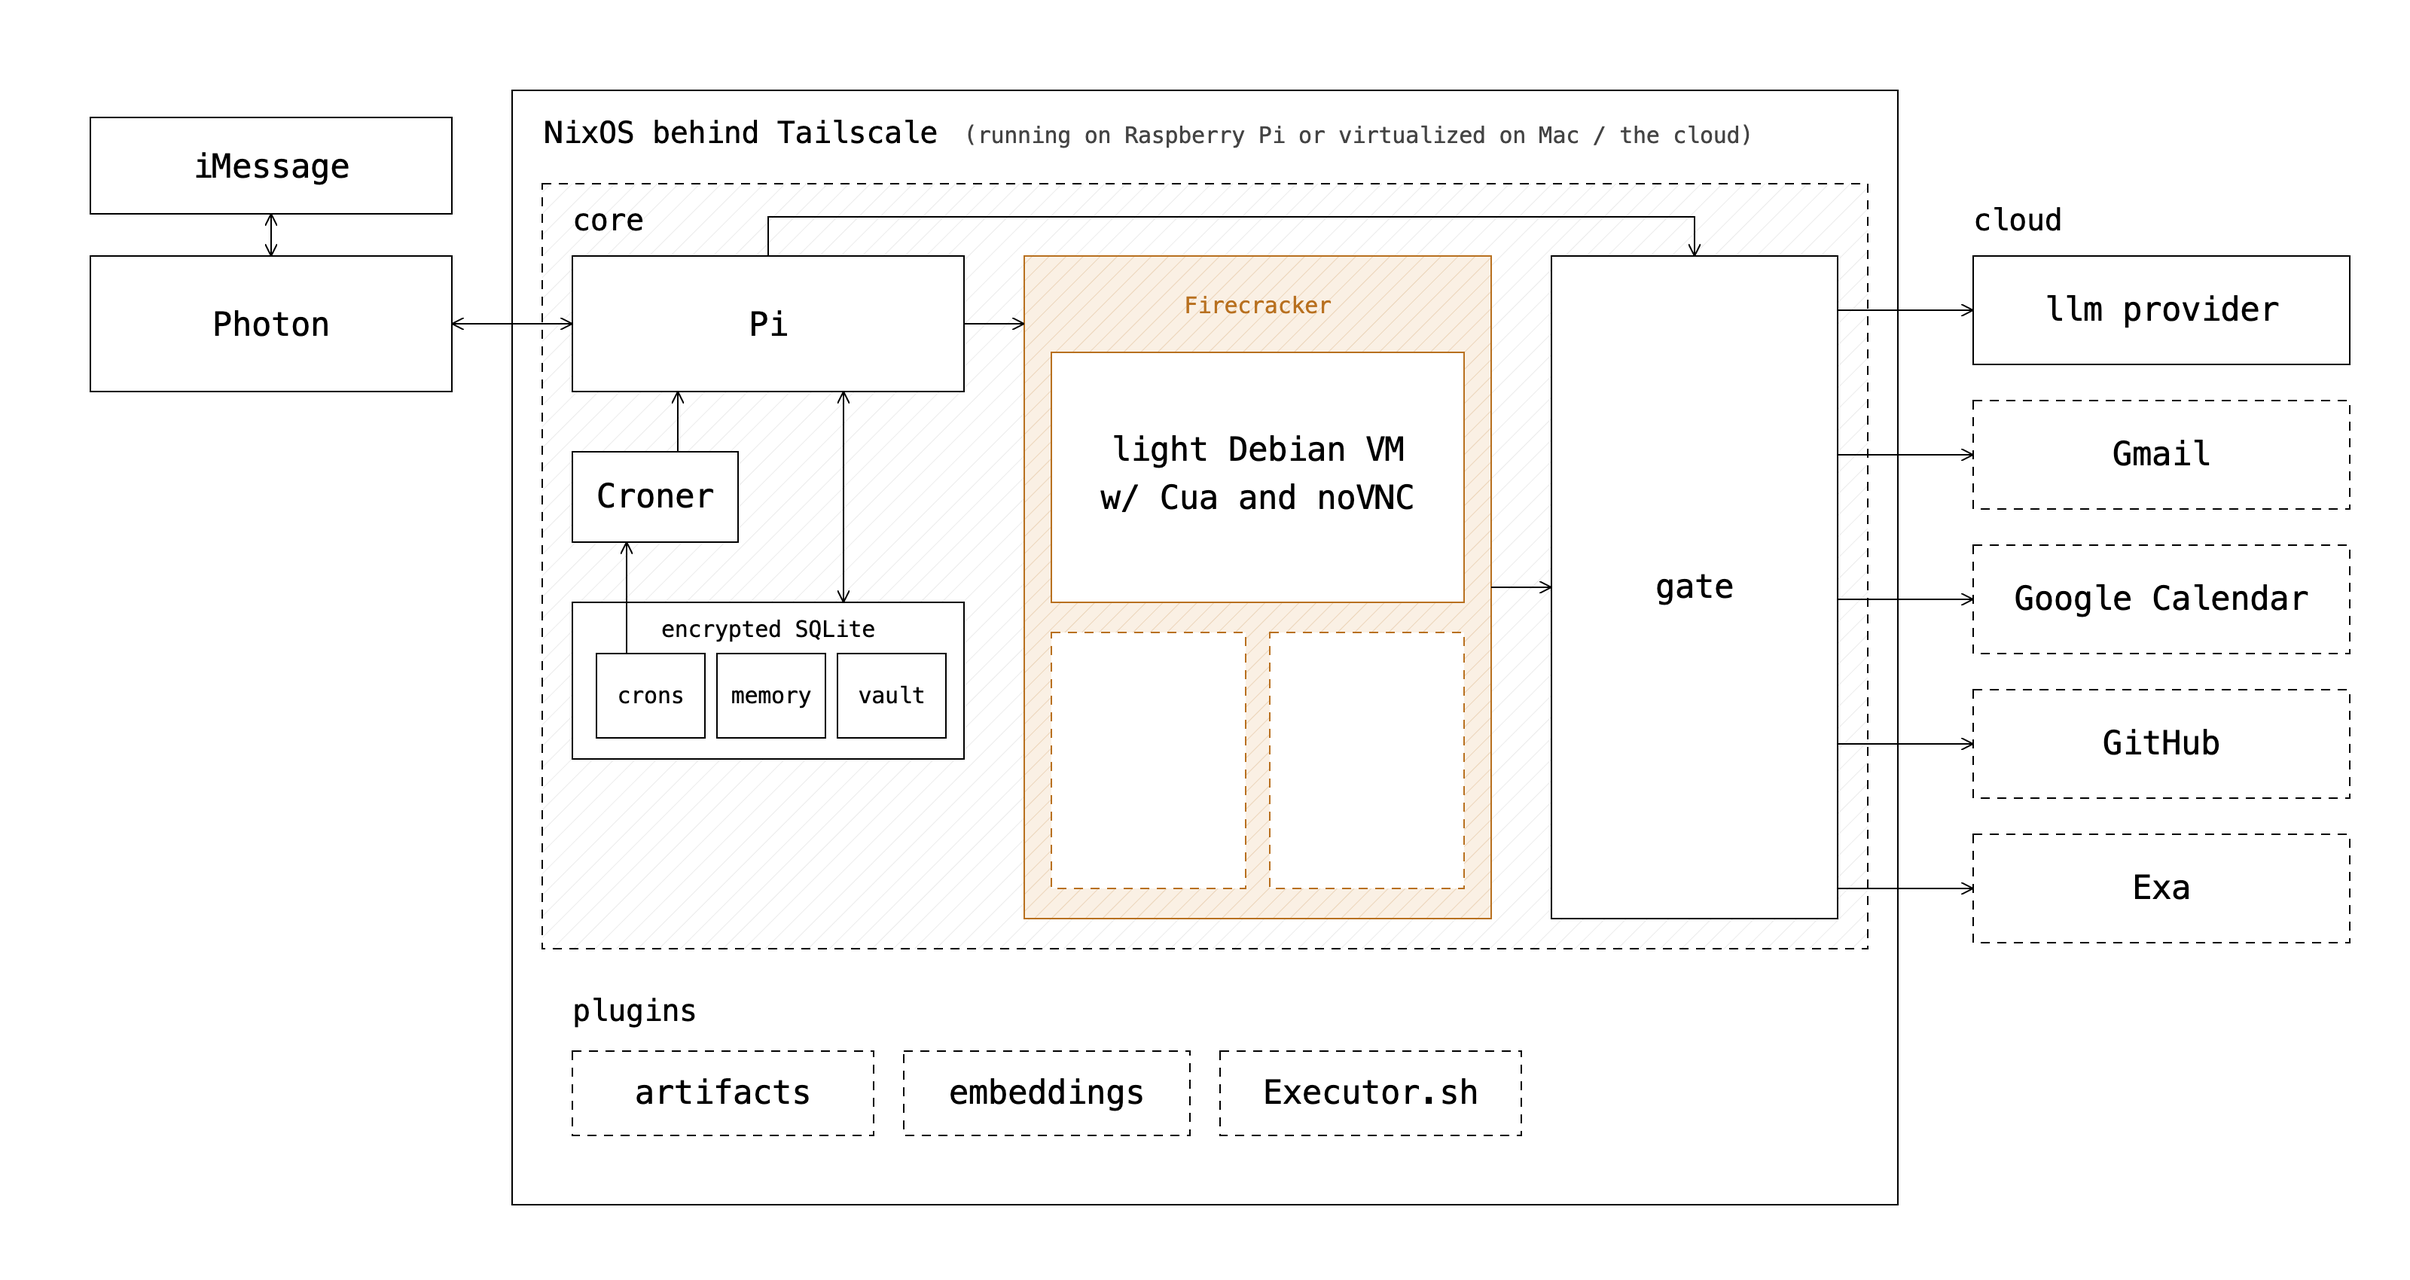
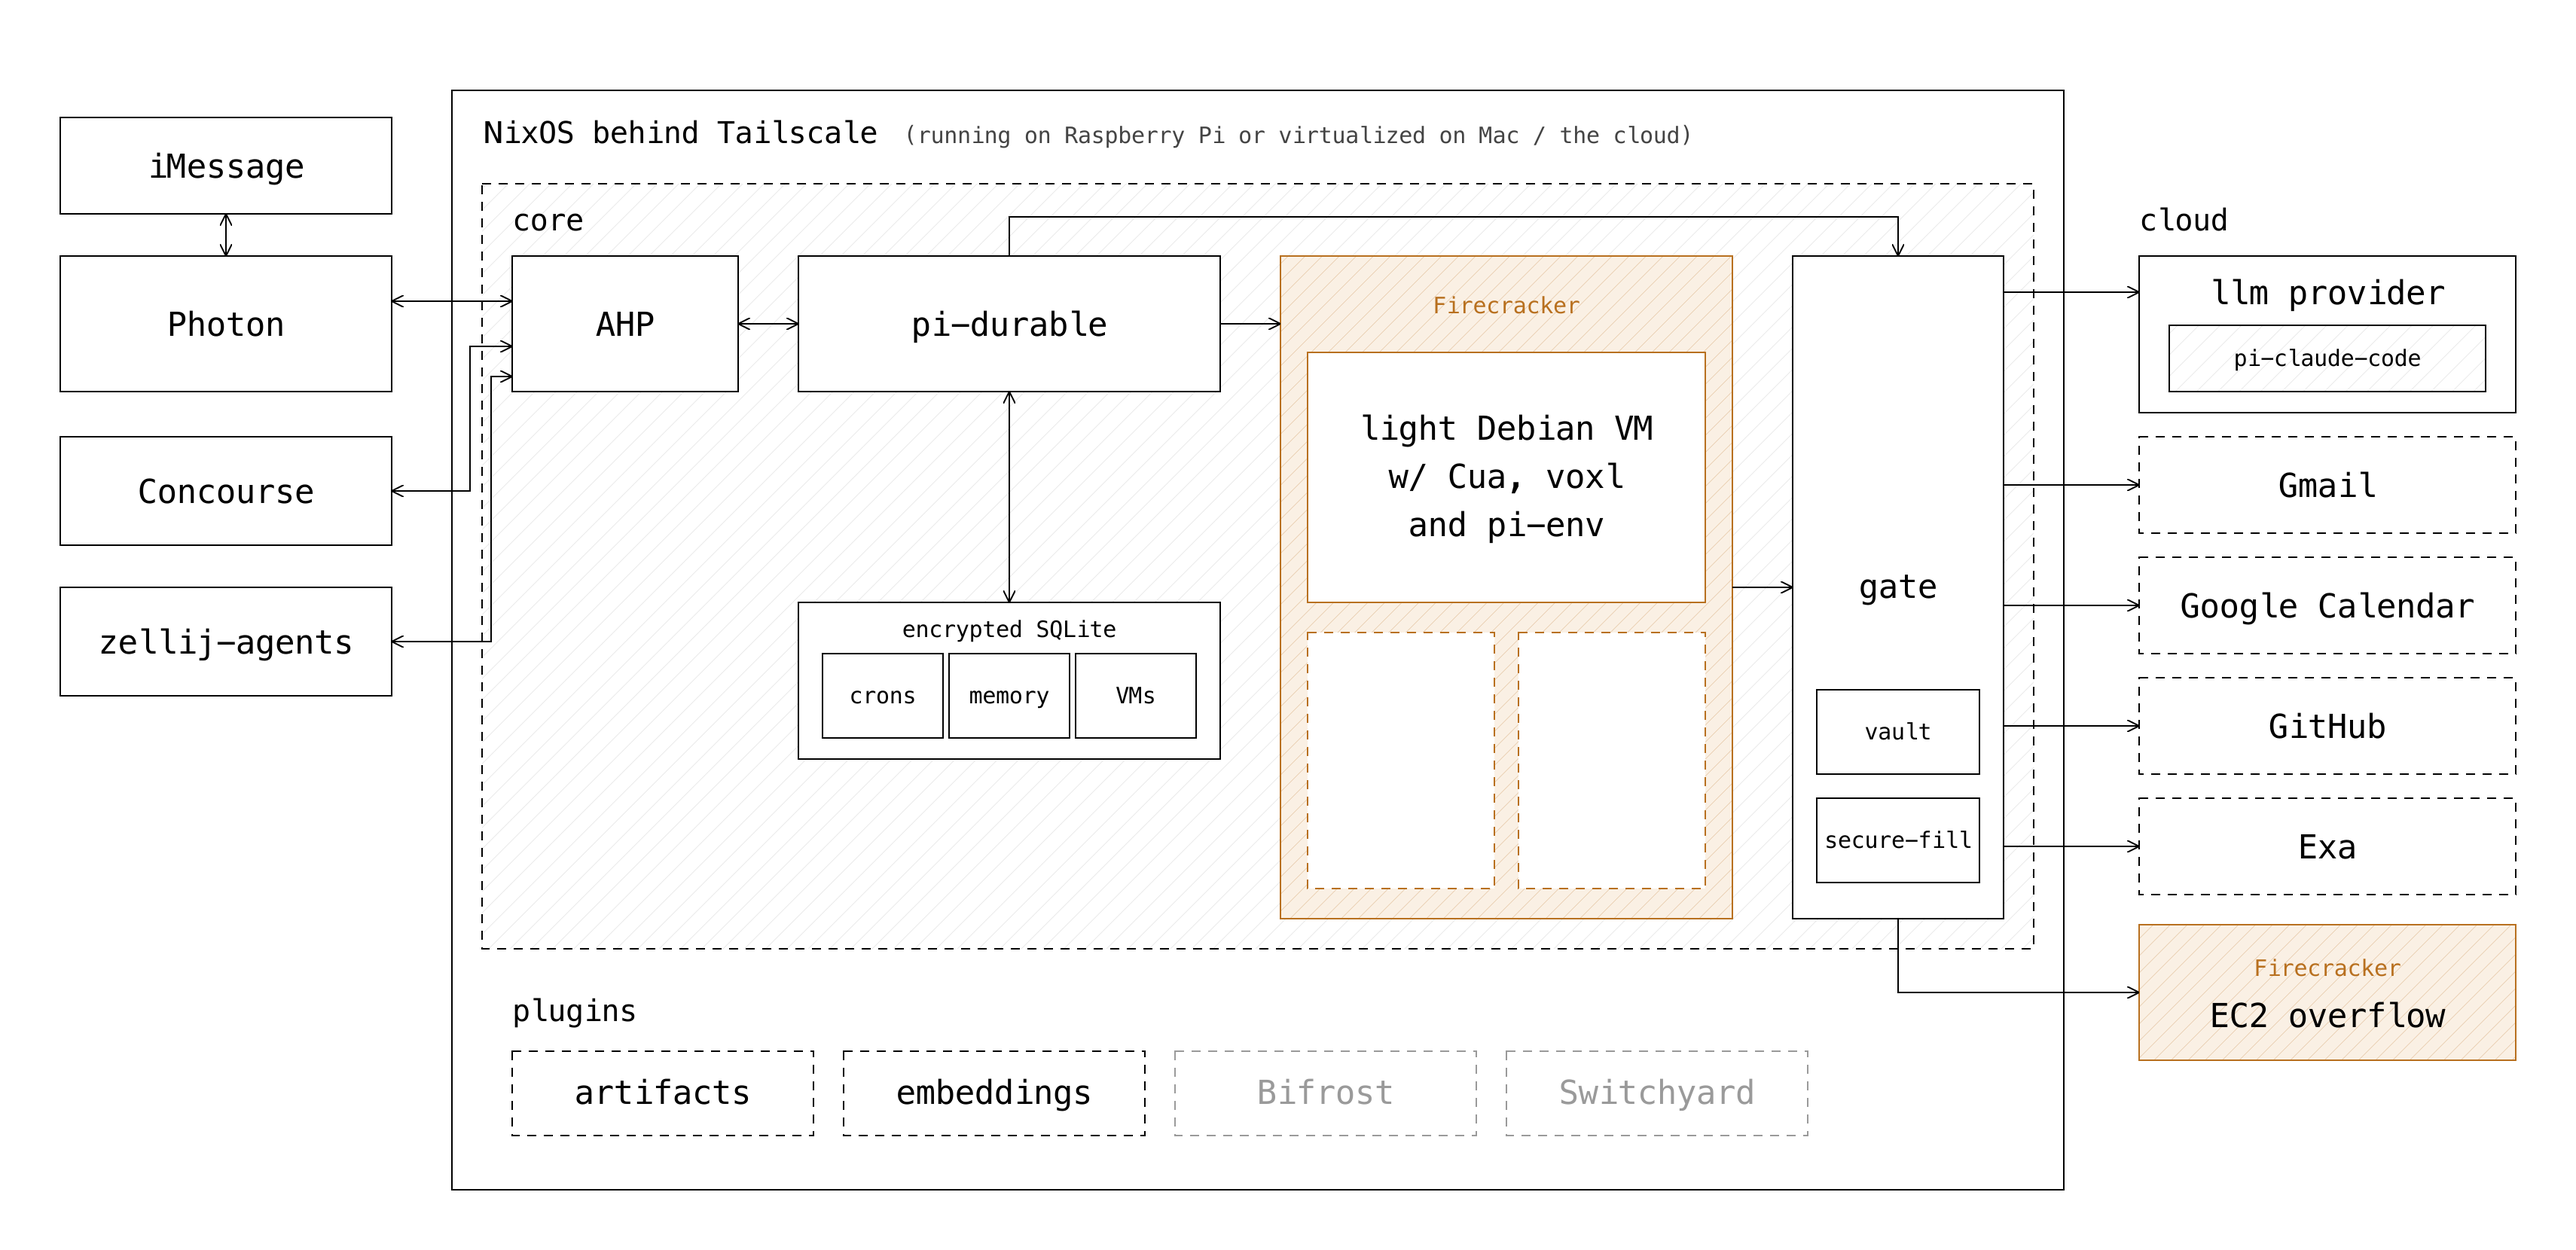
The architecture diagram as biscotti will be: AHP in front of pi-durable, Firecracker with pi-env, the gate holding the vault and secure-fill, EC2 overflow, pi-claude-code

diff --git a/site/src/App.svelte b/site/src/App.svelte
@@ -32,7 +32,7 @@
 
   <details open>
     <summary>Design</summary>
-    <div class="arch" role="img" aria-label="biscotti's architecture: iMessage through Photon to Pi on NixOS behind Tailscale. The core holds Pi, Croner, an encrypted SQLite store (crons, memory, vault), Firecracker VMs for computer use (Debian with Cua and noVNC) and the gate, through which every call to the llm provider, Gmail, Google Calendar, GitHub and Exa goes. Plugins: artifacts, embeddings, Executor.sh.">{@html architecture}</div>
+    <div class="arch" role="img" aria-label="biscotti's architecture: iMessage through Photon, Concourse and zellij-agents all reach AHP, inside NixOS behind Tailscale. The core holds pi-durable, which keeps its crons, memory and VMs in encrypted SQLite and runs tools in Firecracker VMs (Debian with Cua, voxl and pi-env), and the gate, which holds the vault and secure-fill and through which every call to the llm provider (with pi-claude-code), Gmail, Google Calendar, GitHub, Exa and the EC2 overflow goes. Plugins: artifacts, embeddings; Bifrost and Switchyard later.">{@html architecture}</div>
   </details>
 
   <details open>
